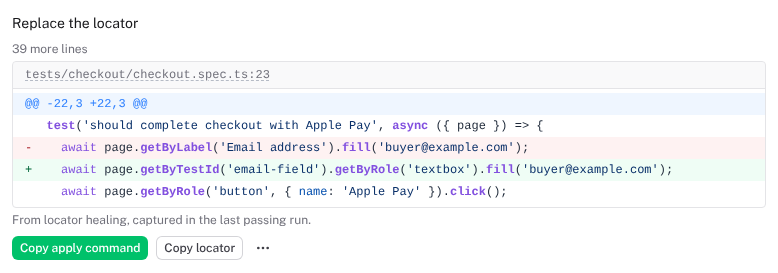
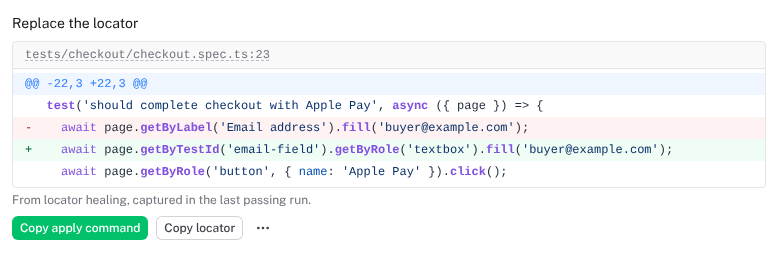
fix(ui): count only the changed lines a locator edit's preview leaves out
The Next row of a locator step with an edit read "39 more lines" above a
preview that already held the whole change. The edit's diff carries the test
file around the one line it rewrites (42 lines on cluster #2), and the row
counted every line its window left out. Those lines are the file as it is, and
the row has no way to open them: Full patch belongs to the apply step.

patchExcerpt also returns hiddenChanges, the removed and added lines among the
lines it hides, and buildNextStepChange counts those for a locator edit. A
one-line edit shows no "N more lines" on /test-run-cases/87 and
/failure-clusters/2. An apply step still counts every hidden line, which Full
patch opens.

next-step-change.png, the fix-plans illustration this lot added, is captured
again from its docs scene on cluster #2 and no longer reads "39 more lines".

Tests: patchExcerpt's hidden changes on cluster 1's patch, the 42-line edit,
a run longer than the window and two files; the locator change counts 0.

Claude-Session: https://claude.ai/code/session_01DN1TP3gsavgzTbFgfPDUkb

Changed region(s): [[0.0, 0.1383, 0.9871, 0.747], [0.0, 0.7747, 0.401, 0.9684], [0.0, 0.0553, 0.1851, 0.1107]]

diff --git a/apps/application/shared/patch.ts b/apps/application/shared/patch.ts
@@ -86,9 +86,13 @@ export interface PatchExcerpt {
   file: string | null;
   /** The body lines of every hunk of every file that the window leaves out. */
   hiddenLines: number;
+  /** The removed and added lines among `hiddenLines`. */
+  hiddenChanges: number;
   /** How many files the diff touches. */
   files: number;
 }
+
+const isChange = (line: string) => line[0] === '+' || line[0] === '-';
 
 /**
  * A window of at most `maxLines` body lines on the first changed run of a
@@ -99,10 +103,12 @@ export interface PatchExcerpt {
  */
 export function patchExcerpt(patch: string, maxLines = 6): PatchExcerpt | null {
   const parsed = parseUnifiedDiff(patch);
-  const total = parsed.files.reduce((sum, f) => sum + f.hunks.reduce((n, h) => n + h.lines.length, 0), 0);
+  const hunks = parsed.files.flatMap((f) => f.hunks);
+  const total = hunks.reduce((n, h) => n + h.lines.length, 0);
+  const totalChanges = hunks.reduce((n, h) => n + h.lines.filter(isChange).length, 0);
   for (const file of parsed.files) {
     for (const hunk of file.hunks) {
-      const first = hunk.lines.findIndex((line) => line[0] === '+' || line[0] === '-');
+      const first = hunk.lines.findIndex(isChange);
       if (first === -1) continue;
       let last = first;
       while (last + 1 < hunk.lines.length && hunk.lines[last + 1]![0] !== ' ') last++;
@@ -124,6 +130,7 @@ export function patchExcerpt(patch: string, maxLines = 6): PatchExcerpt | null {
         diff: [`@@ -${range(oldLine, oldCount)} +${range(newLine, newCount)} @@`, ...window].join('\n'),
         file: stripAbPrefix(file.newPath) ?? stripAbPrefix(file.oldPath),
         hiddenLines: total - window.length,
+        hiddenChanges: totalChanges - window.filter(isChange).length,
         files: parsed.files.length,
       };
     }

diff --git a/apps/application/tests/unit/patch.test.ts b/apps/application/tests/unit/patch.test.ts
@@ -264,6 +264,7 @@ describe('patchExcerpt', () => {
     const total = parseUnifiedDiff(patch).files[0]!.hunks.reduce((n, h) => n + h.lines.length, 0);
     expect(parseUnifiedDiff(patch).files[0]!.hunks).toHaveLength(2);
     expect(excerpt.hiddenLines).toBe(total - 3);
+    expect(excerpt.hiddenChanges).toBe(3);
   });
 
   test("shows cluster 3's added lines between their context lines", () => {
@@ -289,7 +290,7 @@ describe('patchExcerpt', () => {
     const excerpt = patchExcerpt(edit.unifiedDiff!)!;
     expect(excerpt.diff.split('\n')[0]).toBe('@@ -22,3 +22,3 @@');
     expect(body(excerpt.diff)).toEqual([` ${lines[21]}`, `-${edit.oldLine}`, `+${edit.newLine}`, ` ${lines[23]}`]);
-    expect(excerpt.hiddenLines).toBe(39);
+    expect(excerpt).toMatchObject({ hiddenLines: 39, hiddenChanges: 0 });
   });
 
   test('keeps a deletion-only run with its context', () => {
@@ -304,13 +305,13 @@ describe('patchExcerpt', () => {
     const excerpt = patchExcerpt(['--- a/a.ts', '+++ b/a.ts', ...hunk].join('\n'))!;
     expect(excerpt.diff.split('\n')[0]).toBe('@@ -4,6 +4,1 @@');
     expect(body(excerpt.diff)).toEqual([' before();', ...removed]);
-    expect(excerpt.hiddenLines).toBe(12 - 6);
+    expect(excerpt).toMatchObject({ hiddenLines: 12 - 6, hiddenChanges: 5 });
   });
 
   test('counts the hunks and files it leaves out', () => {
     const second = '--- a/b.ts\n+++ b/b.ts\n@@ -1,1 +1,1 @@\n-x();\n+y();\n';
     const excerpt = patchExcerpt(`${SAMPLE}${second}`)!;
-    expect(excerpt).toMatchObject({ file: 'src/foo.ts', files: 2, hiddenLines: 2 });
+    expect(excerpt).toMatchObject({ file: 'src/foo.ts', files: 2, hiddenLines: 2, hiddenChanges: 2 });
   });
 
   test('reads a hunk without counts, and a new file', () => {

diff --git a/apps/application/app/utils/next-step-change.ts b/apps/application/app/utils/next-step-change.ts
@@ -30,7 +30,11 @@ export interface NextStepChange {
   file: string | null;
   /** The call site a replace step rewrites (`file:line:col`). */
   location: string | null;
-  /** The lines of `copyText` the excerpt leaves out. */
+  /**
+   * The lines of `copyText` the excerpt leaves out that the row counts: every
+   * line of a patch, which Full patch opens, and only the removed and added
+   * lines of a locator edit, whose other lines are the file as it is.
+   */
   hiddenLines: number;
   /** The patch's validation in the words of its badge, when the patch applies. */
   validation: string | null;
@@ -81,7 +85,7 @@ export function buildNextStepChange(
         excerpt: excerpt.diff,
         file: excerpt.file,
         location,
-        hiddenLines: excerpt.hiddenLines,
+        hiddenLines: excerpt.hiddenChanges,
         validation: null,
       };
     }

diff --git a/apps/application/tests/unit/next-step-change.test.ts b/apps/application/tests/unit/next-step-change.test.ts
@@ -61,7 +61,7 @@ describe('buildNextStepChange', () => {
     expect(change.hiddenLines).toBeGreaterThan(0);
   });
 
-  test('a replace step with an edit shows a window on its diff and copies it whole', () => {
+  test('a replace step with an edit shows a window on its diff, counts no unchanged line, and copies it whole', () => {
     const change = buildNextStepChange(step('replace-locator'), { diagnosis, healing: healingWithEdit })!;
     expect(change).toMatchObject({
       kind: 'locator',
@@ -69,7 +69,7 @@ describe('buildNextStepChange', () => {
       recommendedLocator: recommended,
       file: spec,
       location: `${spec}:23:10`,
-      hiddenLines: 39,
+      hiddenLines: 0,
       validation: null,
     });
     expect(change.excerpt.split('\n')).toEqual([
